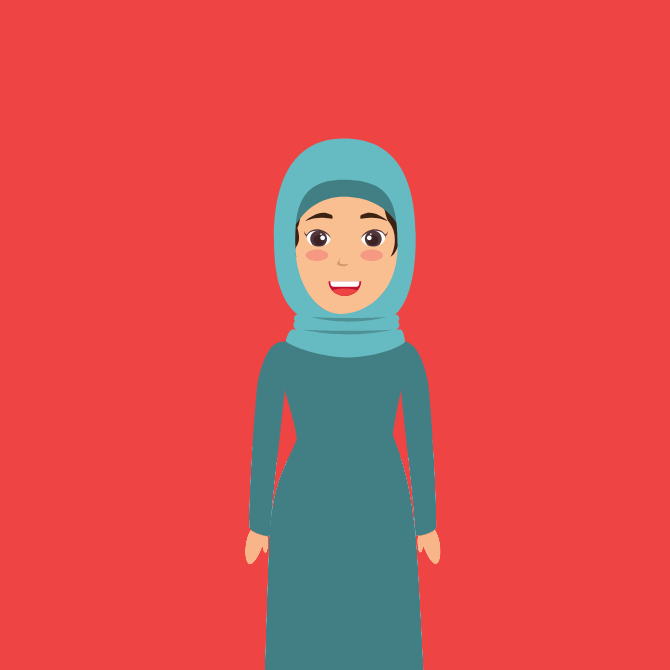
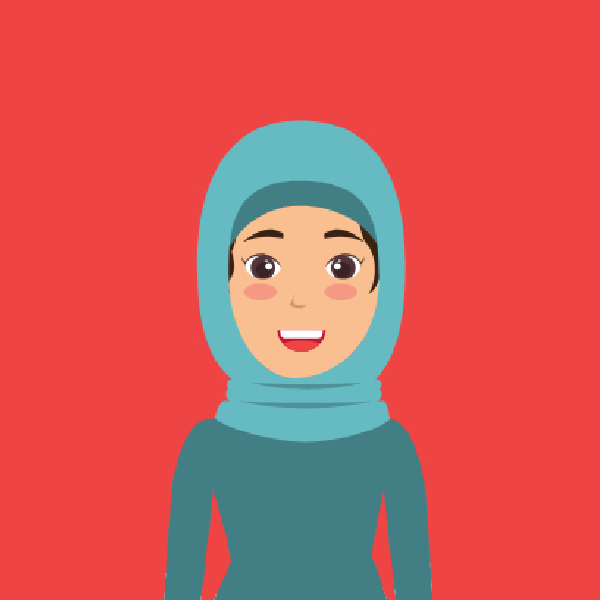
imagenes

Changed region(s): [[0.27, 0.18, 0.72, 1.0], [0.54, 0.21, 0.6, 0.24]]

diff --git a/NeedyFront/src/app/profile/components/create-need/create-need.component.html b/NeedyFront/src/app/profile/components/create-need/create-need.component.html
@@ -12,6 +12,7 @@
                     <input type="text" id="title" class="form-control" formControltitle="title">
                     <div *ngIf="needForm.controls['title'].invalid && needForm.controls['title'].touched" class="text-danger">
                         <div *ngIf="needForm.get('title')?.errors?.['required']">Title is required</div>
+                        <div *ngIf="needForm.get('title')?.errors?.['maxlength']">Description must have less than 150 characters</div>
                     </div>
                 </div>
                 <div class="mb-3">
@@ -26,7 +27,7 @@
                     <input type="date" id="date" class="form-control" formControlName="date">
                     <div *ngIf="needForm.controls['date'].invalid && needForm.controls['date'].touched" class="text-danger">
                         <div *ngIf="needForm.get('date')?.errors?.['required']">Date is required</div>
-                        <div *ngIf="needForm.get('date')?.errors?.['adultAge']">Need Date must be at least 7 days after today's date</div>
+                        <div *ngIf="needForm.get('date')?.errors?.['adultAge']">Title must have less than 20 characters</div>
                     </div>
                 </div>
                 <div class="mb-3">

diff --git a/NeedyFront/src/app/profile/components/create-need/create-need.component.ts b/NeedyFront/src/app/profile/components/create-need/create-need.component.ts
@@ -36,10 +36,10 @@ export class CreateNeedComponent implements OnInit {
     );
 
     this.needForm = this.fb.group({
-      title: new FormControl('', Validators.required),
+      title: new FormControl('', [Validators.required, Validators.maxLength(20)]),
       address: new FormControl('', Validators.required),
       date: new FormControl('', [Validators.required]), //validar sea 7 dias mas
-      modality: new FormControl('', [Validators.required]),
+      modality: new FormControl('', Validators.required),
       description: new FormControl('', [Validators.required, Validators.maxLength(150)]),
     });
   }
@@ -72,7 +72,7 @@ export class CreateNeedComponent implements OnInit {
       // if (response.type) {
       //   this.errorMessage = response.type;
       // } else {
-      //   this.router.navigateByUrl('/login');
+      //   this.router.navigateByUrl('/profile');
       // }
     });
   }

diff --git a/NeedyFront/src/app/helper/services/user.service.ts b/NeedyFront/src/app/helper/services/user.service.ts
@@ -19,6 +19,19 @@ const headers = new HttpHeaders({
 })
 export class UserService {
 
+  pictures = [
+    { ci: "12345678", src: "./assets/images/profile5.jpg" },
+    { ci: "13579246", src: "./assets/images/profile1.jpg" },
+    { ci: "23456789", src: "./assets/images/profile2.jpg" },
+    { ci: "24681357", src: "./assets/images/profile8.jpg" },
+    { ci: "34567890", src: "./assets/images/profile3.jpg" },
+    { ci: "57924680", src: "./assets/images/profile10.jpg" },
+    { ci: "86420975", src: "./assets/images/profile9.jpg" },
+    { ci: "87654321", src: "./assets/images/profile6.jpg" },
+    { ci: "90876543", src: "./assets/images/profile7.jpg" },
+    { ci: "98765432", src: "./assets/images/profile4.jpg"}
+  ];
+
   constructor(private http: HttpClient) { }
 
   getUsers(): Observable<User[]> {

diff --git a/NeedyFront/src/app/helper/components/helper-page/helper-page.component.ts b/NeedyFront/src/app/helper/components/helper-page/helper-page.component.ts
@@ -22,10 +22,10 @@ export class HelperPageComponent implements OnInit {
   ) { }
 
   ngOnInit(): void {
-    console.log('estoy en helper page', this.dataService.userCI);
     this.userService.getUserByCI(this.dataService.userCI).subscribe(
       user => {
         this.user = user;
+        this.setUserImageSrc(user.ci);
       }
     );
   }
@@ -33,6 +33,14 @@ export class HelperPageComponent implements OnInit {
   redirectToUserRatingsPage(ci: string) {
     this.dataService.userCI = ci;
     this.router.navigateByUrl('/helper/ratings');
+  }
+
+  setUserImageSrc(userCI: string) {
+    const dictionary = this.userService.pictures.find(d => d.ci === userCI);
+
+    if (dictionary) {
+      this.user.imageSrc = dictionary.src;
+    }
   }
 
 }

diff --git a/NeedyFront/src/app/shared/components/need-card/need-card.component.html b/NeedyFront/src/app/shared/components/need-card/need-card.component.html
@@ -22,7 +22,7 @@
 
 <div class="card-container" *ngIf="type === 'user'">
     <div class="img-container">
-        <img class="square" src="https://www.w3schools.com/howto/img_avatar.png">
+        <img class="square" src={{user.imageSrc}}>
     </div>
     <div class="info-container">
         <p class="info">
@@ -47,7 +47,7 @@
 <div class="card-container" *ngIf="type === 'applier'">
     <div class="image-container">
         <div class="img-cir" (click)="redirectToUserPage(user.ci)">
-            <img class="circular" src="https://www.w3schools.com/howto/img_avatar.png">
+            <img class="circular" src={{user.imageSrc}}>
         </div>
     </div>
     <div class="info-container">

diff --git a/NeedyFront/src/app/profile/components/profile-page/profile-page.component.ts b/NeedyFront/src/app/profile/components/profile-page/profile-page.component.ts
@@ -31,6 +31,7 @@ export class ProfilePageComponent implements OnInit {
     this.userService.getUserByCI(localStorage.getItem('userCI')!).subscribe(
       user => {
         this.user = user;
+        this.setUserImageSrc(user.ci);
 
         this.needService.getUserCreatedNeeds(user.ci).subscribe(
           needs => {
@@ -58,6 +59,14 @@ export class ProfilePageComponent implements OnInit {
 
   redirectToCreateNeedPage(){
     this.router.navigateByUrl('/profile/create-need');
+  }
+
+  setUserImageSrc(userCI: string) {
+    const dictionary = this.userService.pictures.find(d => d.ci === userCI);
+
+    if (dictionary) {
+      this.user.imageSrc = dictionary.src;
+    }
   }
 
 }

diff --git a/NeedyFront/src/app/helper/components/helper-rating-page/helper-rating-page.component.ts b/NeedyFront/src/app/helper/components/helper-rating-page/helper-rating-page.component.ts
@@ -27,6 +27,7 @@ export class HelperRatingPageComponent implements OnInit {
     this.userService.getUserByCI(this.dataService.userCI).subscribe(
       user => {
         this.user = user;
+        this.setUserImageSrc(user.ci);
         this.ratingService.getUserRating(user.ci).subscribe(
           ratings => {
             this.ratings = ratings;
@@ -41,6 +42,14 @@ export class HelperRatingPageComponent implements OnInit {
         );
       }
     );
+  }
+
+  setUserImageSrc(userCI: string) {
+    const dictionary = this.userService.pictures.find(d => d.ci === userCI);
+
+    if (dictionary) {
+      this.user.imageSrc = dictionary.src;
+    }
   }
 
 }

diff --git a/NeedyFront/src/app/search/components/search-page/search-page.component.ts b/NeedyFront/src/app/search/components/search-page/search-page.component.ts
@@ -45,6 +45,7 @@ export class SearchPageComponent implements OnInit {
     this.userService.getUsers().subscribe(
       users => {
         this.users = users;
+        this.users.forEach((user) => this.setUserImageSrc(user));
       }
     );
 
@@ -67,6 +68,14 @@ export class SearchPageComponent implements OnInit {
   redirectToUserPage(ci: string) {
     this.dataService.userCI = ci;
     this.router.navigateByUrl('/helper');
+  }
+
+  setUserImageSrc(user: User) {
+    const dictionary = this.userService.pictures.find(d => d.ci === user.ci);
+
+    if (dictionary) {
+      user.imageSrc = dictionary.src;
+    }
   }
 
 }

diff --git a/NeedyFront/src/app/profile/components/profile-page/profile-page.component.html b/NeedyFront/src/app/profile/components/profile-page/profile-page.component.html
@@ -3,7 +3,7 @@
 <div class="profile-container">
     <div class="top">
         <div class="img-container">
-            <img src="https://www.w3schools.com/howto/img_avatar.png" alt="Avatar" class="avatar">
+            <img src={{user.imageSrc}} class="avatar">
         </div>
         <h2>{{user.firstName | uppercase}} {{user.lastName | uppercase}}</h2>
     </div>

diff --git a/NeedyFront/src/app/need/components/need-page/need-page.component.ts b/NeedyFront/src/app/need/components/need-page/need-page.component.ts
@@ -26,7 +26,6 @@ export class NeedPageComponent implements OnInit {
   ngOnInit(): void {
     this.needService.getNeedById(this.dataService.needId).subscribe(
       need => {
-        console.log(need);
         this.need = need;
         this.checkIsRequestor();
         this.checkIsApplied();

diff --git a/NeedyFront/src/app/helper/components/helper-page/helper-page.component.html b/NeedyFront/src/app/helper/components/helper-page/helper-page.component.html
@@ -2,7 +2,7 @@
 
 <div class="helper-container">
   <div class="helper-image-container">
-      <img src="https://upload.wikimedia.org/wikipedia/commons/4/49/A_black_image.jpg">
+      <img src={{user.imageSrc}}>
   </div>
   <div class="helper-info-container">
       <div class="info">

diff --git a/NeedyFront/src/app/helper/components/helper-rating-page/helper-rating-page.component.html b/NeedyFront/src/app/helper/components/helper-rating-page/helper-rating-page.component.html
@@ -2,7 +2,7 @@
 
 <div class="rating-container">
   <div class="helper-image-container">
-      <img src="https://upload.wikimedia.org/wikipedia/commons/4/49/A_black_image.jpg">
+      <img src={{user.imageSrc}}>
   </div>
   <div class="info-container">
     <div class="info">
